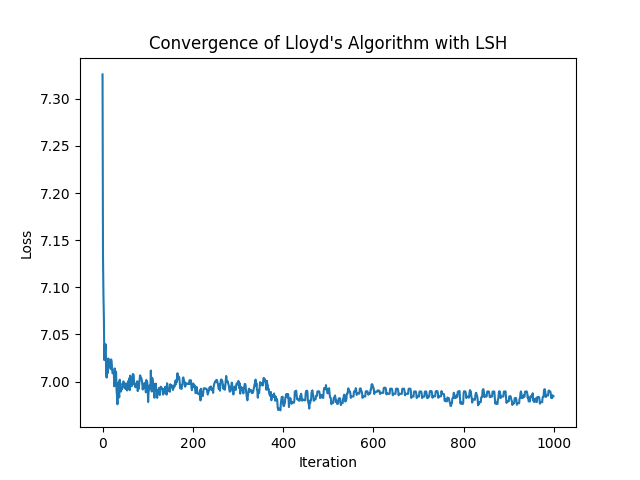
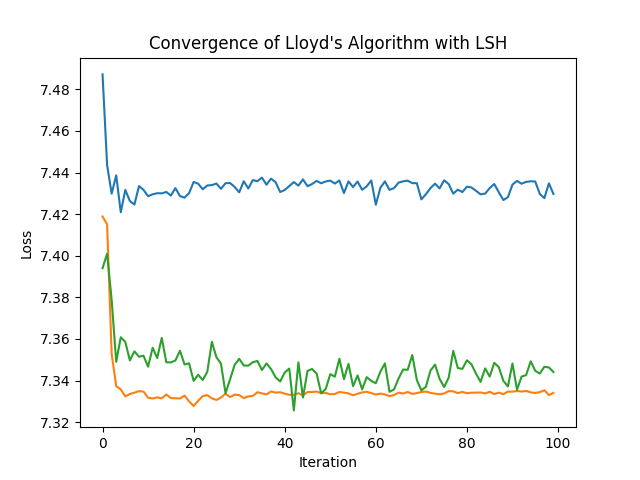
added grid search for LSH, coresets now also in main

diff --git a/main.py b/main.py
@@ -1,4 +1,5 @@
 import os
+import time
 
 import pandas as pd
 import numpy as np
@@ -10,34 +11,45 @@ from sklearn.metrics import normalized_mutual_info_score
 
 from LloydsAlgorithm import LloydsAlgorithm
 from LSHLloyd import LloydsAlgorithmLSH
+from coresets import Coresets
+
+
+def write_results_to_file(filename, nmi, number_dist_calc, runtime, num_iter):
+    with open(filename, 'w') as f:
+        f.write('Average NMI: {}\n'.format(np.mean(nmi)))
+        f.write('Average number of distance calculations: {}\n'.format(np.mean(number_dist_calc)))
+        f.write('Average runtime: {}\n'.format(np.mean(runtime)))
+        f.write('Average number of iterations: {}\n'.format(np.mean(num_iter)))
+
 
 if __name__ == '__main__':
     os.environ['OMP_NUM_THREADS'] = '1'
+    n_iter = 100
 
+    # Load data and preprocess
     data = pd.read_csv('bio_train.csv', header=None)
     true_labels = data[0].tolist()
-    data = data.drop(columns=[0,1,2]).to_numpy()
+    data = data.drop(columns=[0, 1, 2]).to_numpy()
     num_clusters = len(set(true_labels))
-    print(data.shape)
-    print(num_clusters)
 
     scaler = StandardScaler()
     data = scaler.fit_transform(data)
 
+    # Baseline using sklearn
     print("---------------SKLEARN---------------")
-    kmeans_sklearn = KMeans(n_clusters=num_clusters, init=data.copy()[:num_clusters], max_iter=1000)
+    kmeans_sklearn = KMeans(n_clusters=num_clusters, init=data.copy()[:num_clusters], max_iter=n_iter)
     pred_labels = kmeans_sklearn.fit_predict(data.copy())
     print('NMI: {}'.format(normalized_mutual_info_score(true_labels, pred_labels)))
 
     # Lloyds Algorithm
-    print("---------------LLOYD ALGORITHM---------------")
+    """print("---------------LLOYD ALGORITHM---------------")
     NMI = []
     losses = []
     num_distance_calculations = []
     runtimes = []
     num_iterations = []
     for _ in range(1):
-        lloyds = LloydsAlgorithm(num_clusters, data.copy(), true_labels, max_iter=1000)
+        lloyds = LloydsAlgorithm(num_clusters, data.copy(), true_labels, max_iter=n_iter)
         lloyds.fit()
         NMI.append(lloyds.NMI)
         losses.append(lloyds.losses)
@@ -49,11 +61,7 @@ if __name__ == '__main__':
     print('Average runtime: {}'.format(np.mean(runtimes)))
     print('Average number of iterations: {}'.format(np.mean(num_iterations)))
 
-    with open('lloyds_algorithm_results.txt', 'w') as f:
-        f.write('Average NMI: {}\n'.format(np.mean(NMI)))
-        f.write('Average number of distance calculations: {}\n'.format(np.mean(num_distance_calculations)))
-        f.write('Average runtime: {}\n'.format(np.mean(runtimes)))
-        f.write('Average number of iterations: {}\n'.format(np.mean(num_iterations)))
+    write_results_to_file('lloyds_algorithm_results.txt', NMI, num_distance_calculations, runtimes, num_iterations)
 
     for loss in losses:
         plt.plot(loss)
@@ -61,41 +69,73 @@ if __name__ == '__main__':
         plt.ylabel('Loss')
         plt.title('Convergence of Lloyd\'s Algorithm')
     plt.savefig('lloyds_algorithm_convergence.png')
-    plt.close()
-    #plt.show()
+    plt.close()"""
 
+    # Lloyds Algorithm with LSH
+    print("---------------LLOYD ALGORITHM WITH LSH---------------")
+    configs = [(1, 2), (2, 1)]
+    for config in configs:
 
-    # # Lloyds Algorithm with LSH
-    # print("---------------LLOYD ALGORITHM WITH LSH---------------")
-    # NMI_lsh = []
-    # losses_lsh = []
-    # num_distance_calculations_lsh = []
-    # runtimes_lsh = []
-    # num_iterations_lsh = []
-    # for _ in range(1):
-    #     lloyds_lsh = LloydsAlgorithmLSH(num_clusters, data.copy(), true_labels, num_hash_tables=3, num_hashes_per_table=3, bucket_size=4.0, max_iter=1000, debug=True)
-    #     lloyds_lsh.fit()
-    #     NMI_lsh.append(lloyds_lsh.NMI)
-    #     losses_lsh.append(lloyds_lsh.losses)
-    #     num_distance_calculations_lsh.append(lloyds_lsh.num_distance_calculations)
-    #     runtimes_lsh.append(lloyds_lsh.time)
-    #     num_iterations_lsh.append(lloyds_lsh.iterations)
-    # print('Average NMI: {}'.format(np.mean(NMI_lsh)))
-    # print('Average number of distance calculations: {}'.format(np.mean(num_distance_calculations_lsh)))
-    # print('Average runtime: {}'.format(np.mean(runtimes_lsh)))
-    # print('Average number of iterations: {}'.format(np.mean(num_iterations_lsh)))
+        NMI_lsh = []
+        losses_lsh = []
+        num_distance_calculations_lsh = []
+        runtimes_lsh = []
+        num_iterations_lsh = []
+        for _ in range(3):
+            lloyds_lsh = LloydsAlgorithmLSH(num_clusters, data.copy(), true_labels, num_hash_tables=config[0],
+                                            num_hashes_per_table=config[1], bucket_size=1.0, max_iter=n_iter, debug=False)
+            lloyds_lsh.fit()
+            NMI_lsh.append(lloyds_lsh.NMI)
+            losses_lsh.append(lloyds_lsh.losses)
+            num_distance_calculations_lsh.append(lloyds_lsh.num_distance_calculations)
+            runtimes_lsh.append(lloyds_lsh.time)
+            num_iterations_lsh.append(lloyds_lsh.iterations)
+        print('Average NMI: {}'.format(np.mean(NMI_lsh)))
+        print('Average number of distance calculations: {}'.format(np.mean(num_distance_calculations_lsh)))
+        print('Average runtime: {}'.format(np.mean(runtimes_lsh)))
+        print('Average number of iterations: {}'.format(np.mean(num_iterations_lsh)))
 
-    # with open('lloyds_algorithm_lsh_results.txt', 'w') as f:
-    #     f.write('Average NMI: {}\n'.format(np.mean(NMI_lsh)))
-    #     f.write('Average number of distance calculations: {}\n'.format(np.mean(num_distance_calculations_lsh)))
-    #     f.write('Average runtime: {}\n'.format(np.mean(runtimes_lsh)))
-    #     f.write('Average number of iterations: {}\n'.format(np.mean(num_iterations_lsh)))
+        write_results_to_file('lloyds_algorithm_lsh_results.txt', NMI_lsh, num_distance_calculations_lsh, runtimes_lsh,
+                              num_iterations_lsh)
 
-    # for loss_lsh in losses_lsh:
-    #     plt.plot(loss_lsh)
-    #     plt.xlabel('Iteration')
-    #     plt.ylabel('Loss')
-    #     plt.title('Convergence of Lloyd\'s Algorithm with LSH')
-    # plt.savefig('lloyds_algorithm_lsh_convergence.png')
-    # plt.close()
-    # #plt.show()
+        for loss_lsh in losses_lsh:
+            plt.plot(loss_lsh)
+            plt.xlabel('Iteration')
+            plt.ylabel('Loss')
+            plt.title('Convergence of Lloyd\'s Algorithm with LSH')
+        plt.savefig('lloyds_algorithm_lsh_convergence.png')
+        plt.close()
+
+    # Coreset
+    print("---------------CORESET---------------")
+
+    coreset_sizes = [100, 1000, 10000]
+    NMI_scores = {size: [] for size in coreset_sizes}
+    NMI_average_scores = {size: [] for size in coreset_sizes}
+    num_it = {size: [] for size in coreset_sizes}
+    times = {size: [] for size in coreset_sizes}
+    for size in coreset_sizes:
+        for k in range(10):
+            start = time.time()
+            coreset = Coresets(min(num_clusters, int(size * 0.9)), data, true_labels, size)
+            predictor = coreset.fit()
+            pred = predictor.predict(data)
+            times[size].append(time.time() - start)
+            num_it[size].append(predictor.n_iter_)
+            NMI_scores[size].append(normalized_mutual_info_score(true_labels, pred, average_method='arithmetic'))
+        NMI_average_scores[size] = np.mean(NMI_scores[size])
+        num_it[size] = np.mean(num_it[size])
+        times[size] = np.mean(times[size])
+
+    for size in coreset_sizes:
+        print('Coreset size: {}'.format(size))
+        print('Average NMI: {}'.format(NMI_average_scores[size]))
+        print('Average number of iterations: {}'.format(num_it[size]))
+        print('Average runtime: {}'.format(times[size]))
+    '''# check the variance of the NMI scores for each coreset size
+    for size in coreset_sizes:
+        print(np.var(NMI_scores[size]))'''
+
+    for size in coreset_sizes:
+        file_name = 'coreset_{}_results.txt'.format(size)
+        write_results_to_file(file_name, NMI_scores[size], num_it[size], times[size], num_it[size])

diff --git a/LSH_hyperparameter_tuning.py b/LSH_hyperparameter_tuning.py
@@ -1,0 +1,52 @@
+import pandas as pd
+from sklearn.preprocessing import StandardScaler
+
+from LSHLloyd import LloydsAlgorithmLSH
+
+if __name__ == "__main__":
+    n_iter = 50
+
+    # Load data and preprocess
+    data = pd.read_csv('bio_train.csv', header=None)
+    true_labels = data[0].tolist()
+    data = data.drop(columns=[0, 1, 2]).to_numpy()
+    num_clusters = len(set(true_labels))
+
+    scaler = StandardScaler()
+    data = scaler.fit_transform(data)
+
+    grid = {"num_hash_tables": [2, 5, 10], "num_hashes_per_table": [2, 5, 10], "bucket_size": [1.0, 2.0, 4.0]}
+
+    optimal_params = {"num_hash_tables": 2, "num_hashes_per_table": 2, "bucket_size": 1.0, "NMI": 0}
+
+    for num_hash_tables in grid["num_hash_tables"]:
+        for num_hashes_per_table in grid["num_hashes_per_table"]:
+            for bucket_size in grid["bucket_size"]:
+                NMI_lsh = []
+                losses_lsh = []
+                num_distance_calculations_lsh = []
+                runtimes_lsh = []
+                num_iterations_lsh = []
+
+                for _ in range(5):
+                    lloyds_lsh = LloydsAlgorithmLSH(num_clusters, data.copy(), true_labels,
+                                                    num_hash_tables=num_hash_tables,
+                                                    num_hashes_per_table=num_hashes_per_table, bucket_size=bucket_size,
+                                                    max_iter=n_iter,
+                                                    debug=False)
+                    lloyds_lsh.fit()
+                    NMI_lsh.append(lloyds_lsh.NMI)
+                    losses_lsh.append(lloyds_lsh.losses)
+                    num_distance_calculations_lsh.append(lloyds_lsh.num_distance_calculations)
+                    runtimes_lsh.append(lloyds_lsh.time)
+                    num_iterations_lsh.append(lloyds_lsh.iterations)
+
+                NMI = sum(NMI_lsh) / len(NMI_lsh)
+
+                if NMI > optimal_params["NMI"]:
+                    optimal_params["num_hash_tables"] = num_hash_tables
+                    optimal_params["num_hashes_per_table"] = num_hashes_per_table
+                    optimal_params["bucket_size"] = bucket_size
+                    optimal_params["NMI"] = NMI
+
+    print(optimal_params)

diff --git a/LSHLloyd.py b/LSHLloyd.py
@@ -4,8 +4,10 @@ from sklearn.metrics import pairwise_distances
 from KMeans import KMeans
 from tqdm import tqdm
 
+
 class LloydsAlgorithmLSH(KMeans):
-    def __init__(self, k, data, true_labels, num_hash_tables=2, num_hashes_per_table=3, bucket_size=1.0, max_iter=100, debug=False):
+    def __init__(self, k, data, true_labels, num_hash_tables=2, num_hashes_per_table=3, bucket_size=1.0, max_iter=100,
+                 debug=False):
         super().__init__(k, data, true_labels, max_iter)
         self.distances = None
         self.converged = False
@@ -69,7 +71,7 @@ class LloydsAlgorithmLSH(KMeans):
             else:
                 # Randomly reinitialize centroid if cluster is empty
                 self.centroids[i] = self.data[np.random.choice(self.data.shape[0])]
-                if(self.debug):
+                if self.debug:
                     print(f"Cluster {i} is empty. Reinitializing centroid to {self.centroids[i]}")
 
     def assign_clusters(self):
@@ -106,7 +108,6 @@ class LloydsAlgorithmLSH(KMeans):
             return self.convergence_check(temp_clusters), len(assigned_points)
         else:
             return False, len(assigned_points)
-
 
     def fit(self):
         start = time.time()

diff --git a/coresets.py b/coresets.py
@@ -2,10 +2,11 @@ import random
 
 import numpy as np
 import pandas as pd
-from matplotlib import pyplot as plt
 from sklearn.cluster import KMeans
 from sklearn.metrics import pairwise_distances, normalized_mutual_info_score
 import os
+
+from sklearn.preprocessing import StandardScaler
 
 
 class Coresets:
@@ -46,8 +47,10 @@ if __name__ == "__main__":
 
     data = pd.read_csv('bio_train.csv', header=None)
     true_labels = data[0].tolist()
-    data = data.drop(columns=0).to_numpy()
+    data = data.drop(columns=[0, 1, 2]).to_numpy()
     num_clusters = len(set(true_labels))
+
+    data = StandardScaler().fit_transform(data)
 
     coreset_sizes = [100, 1000, 10000]
     NMI_scores = {size: [] for size in coreset_sizes}
